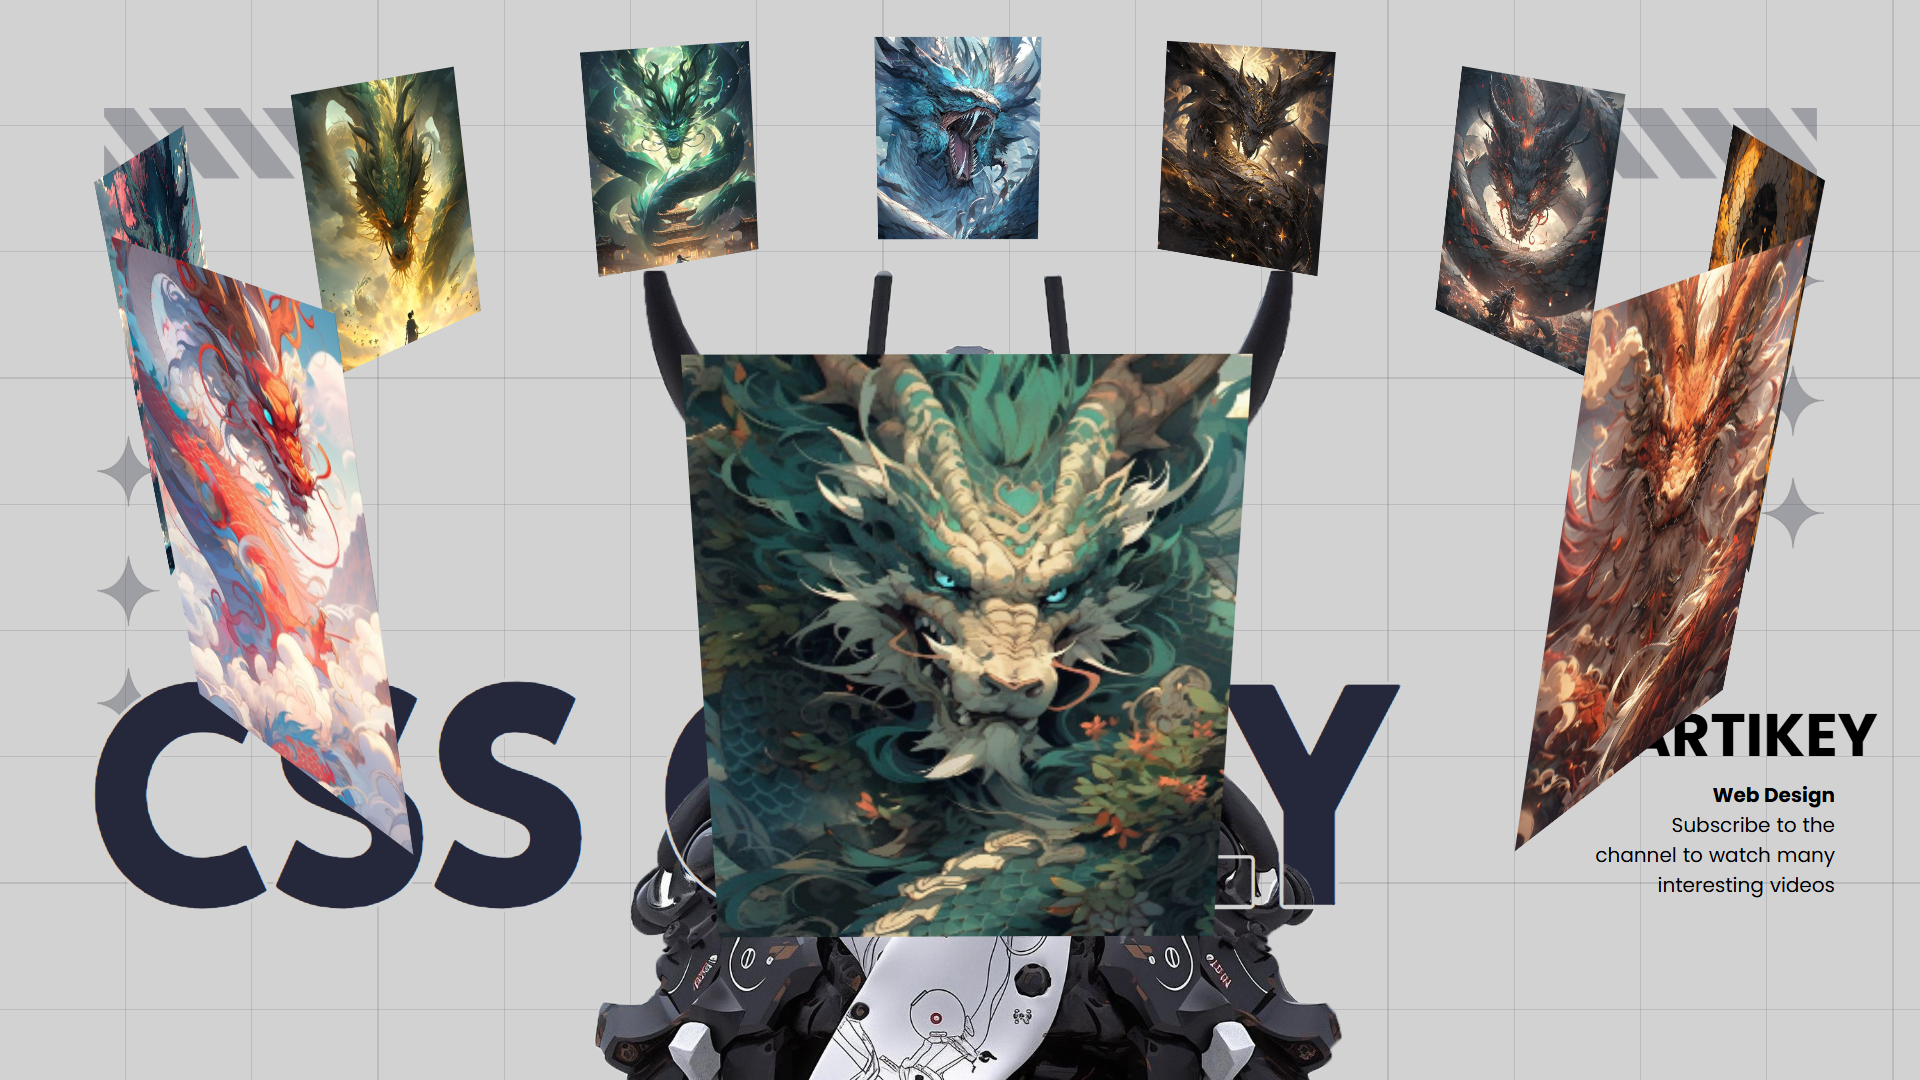
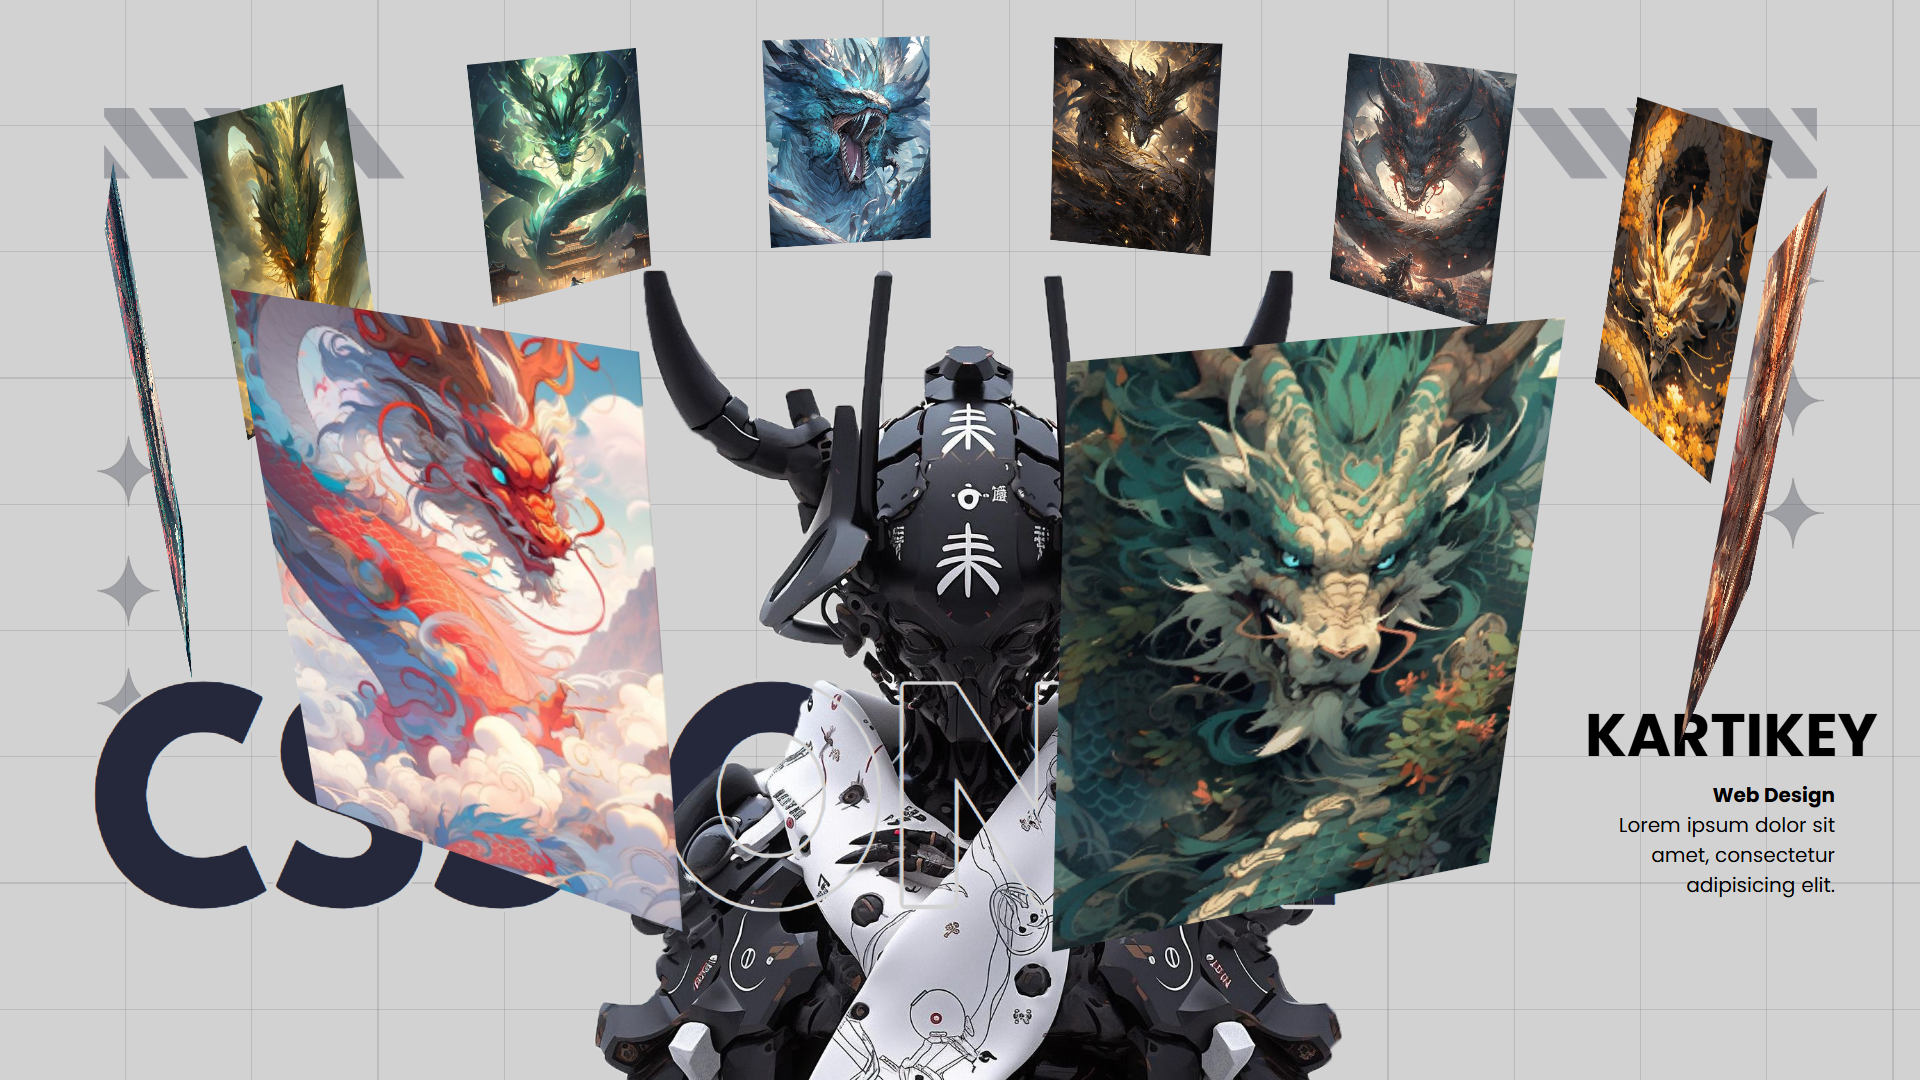
update

diff --git a/slider_3d/index.html b/slider_3d/index.html
@@ -64,7 +64,7 @@
                 <h2>KARTIKEY</h2>
                 <p><b>Web Design</b></p>
                 <p>
-                    Subscribe to the channel to watch many interesting videos
+                    Lorem ipsum dolor sit amet, consectetur adipisicing elit.
                 </p>
             </div>
             <div class="model"></div>
